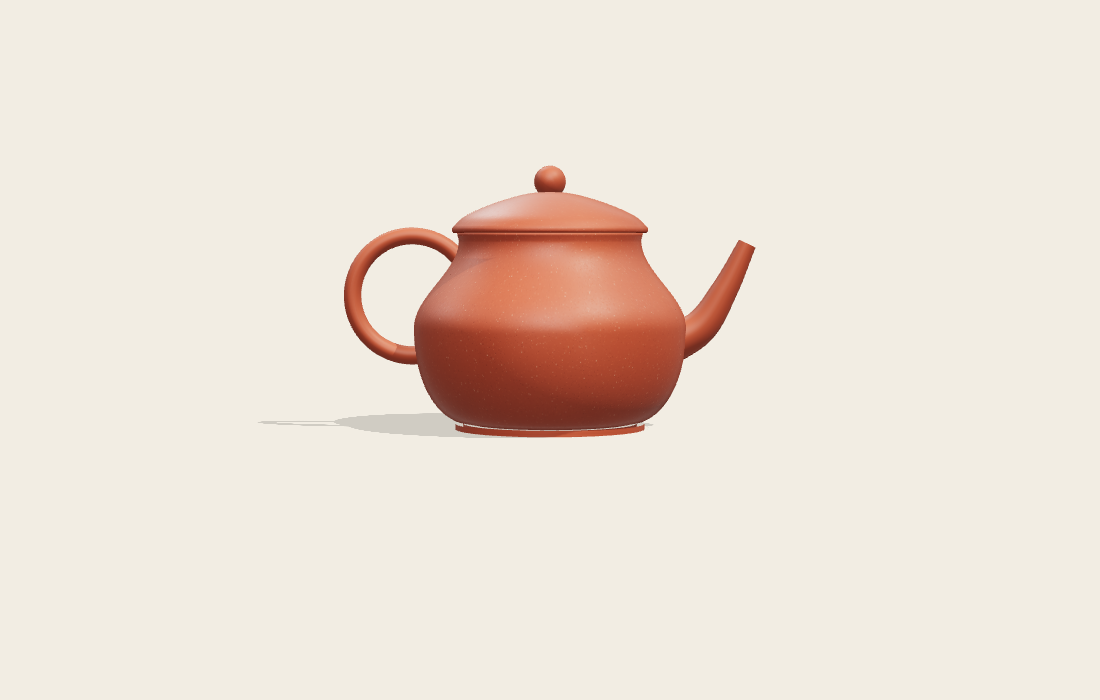
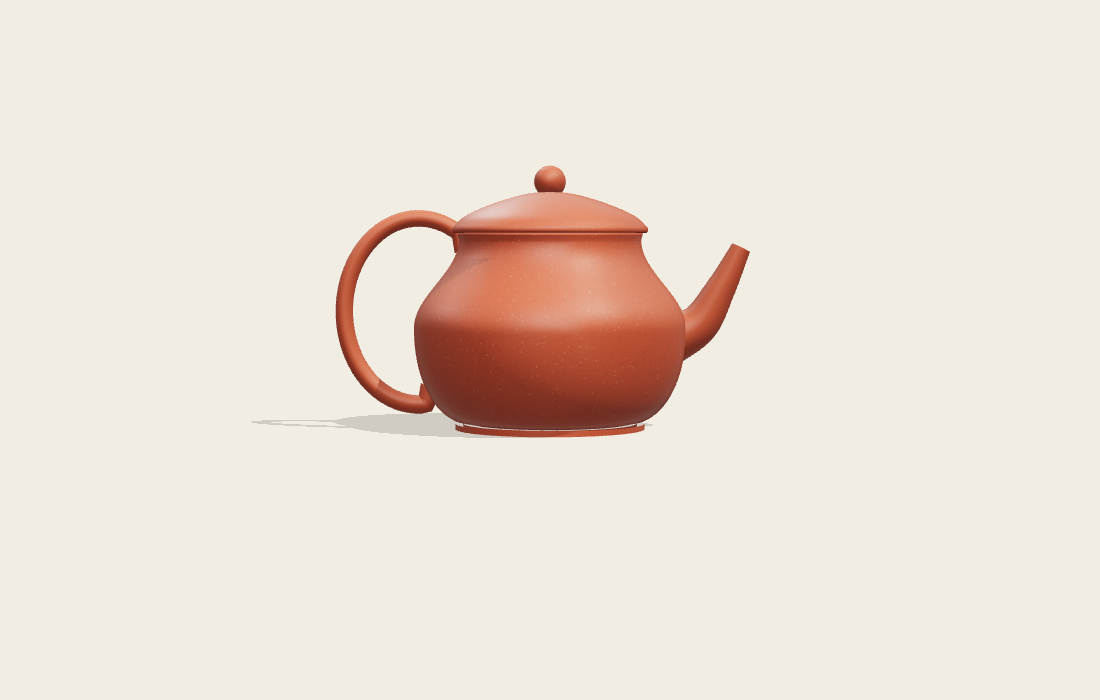
panhu: a walled bore in the curved spout, and an oval ring handle
Two faults, both caught by eye against the photograph:

- the swept spout had no bore. A tube sweep is a single surface, so the pour
  opening showed no wall -- a violation of the DSL's own rule (no surface
  without a back face) that the straight-cone spout had never had, because its
  profile folds inward at the tip. sweptTube now takes an inner radius and
  builds the bore plus the annulus that closes them at the tip; the wall is
  visible in the opening.
- the handle was a circle. A circle through the two attachments and the outer
  point cannot make the tall oval a 环把 actually is, so the loop is now
  stretched vertically by a parameter, with the ends pinned back onto the body.

Spout root thickened and shortened to match the photograph.

Still approximate and known: the spout meets the belly as a tube rather than
with the wide 润接 fillet the real pot has, and the shoulder meets the lid a
little more sharply than it should.

Claude-Session: https://claude.ai/code/session_01Au3NkrP4Zh9Vb2uEzJxxmj

Changed region(s): [[0.2782, 0.3, 0.4327, 0.6], [0.6182, 0.33, 0.68, 0.48], [0.2473, 0.6, 0.3091, 0.63]]

diff --git a/src/geometry/sweep.js b/src/geometry/sweep.js
@@ -4,7 +4,10 @@ import * as THREE from 'three'
  * Tube of varying radius along a curve — three's TubeGeometry is fixed-radius,
  * but a hand-formed strap or spout is never a constant tube.
  */
-export function sweptTube(curve, radiusAt, tubular = 72, radial = 16) {
+export function sweptTube(curve, radiusAt, tubular = 72, radial = 16, innerAt = null) {
+  // With innerAt the sweep is a *walled* tube: an outer surface, an inner bore
+  // and an annulus closing them at the tip. Without a bore a spout has no wall
+  // at the pour opening, which the DSL forbids — no surface without a back face.
   const frames = curve.computeFrenetFrames(tubular, false)
   const pos = [], nor = [], idx = []
   for (let i = 0; i <= tubular; i++) {
@@ -30,6 +33,41 @@ export function sweptTube(curve, radiusAt, tubular = 72, radial = 16) {
       const c = (radial + 1) * i + j
       const d = (radial + 1) * (i - 1) + j
       idx.push(a, b, d, b, c, d)
+    }
+  }
+  if (innerAt) {
+    const base = (tubular + 1) * (radial + 1)
+    for (let i = 0; i <= tubular; i++) {
+      const t = i / tubular
+      const P = curve.getPointAt(t)
+      const N = frames.normals[i]
+      const B = frames.binormals[i]
+      const r = Math.max(innerAt(t), 0.004)
+      for (let j = 0; j <= radial; j++) {
+        const v = (j / radial) * Math.PI * 2
+        const sn = Math.sin(v), cs = -Math.cos(v)
+        const nx = cs * N.x + sn * B.x
+        const ny = cs * N.y + sn * B.y
+        const nz = cs * N.z + sn * B.z
+        nor.push(-nx, -ny, -nz)                    // the bore faces inward
+        pos.push(P.x + r * nx, P.y + r * ny, P.z + r * nz)
+      }
+    }
+    for (let i = 1; i <= tubular; i++) {
+      for (let j = 1; j <= radial; j++) {
+        const a = base + (radial + 1) * (i - 1) + (j - 1)
+        const b = base + (radial + 1) * i + (j - 1)
+        const c = base + (radial + 1) * i + j
+        const d = base + (radial + 1) * (i - 1) + j
+        idx.push(a, d, b, b, d, c)                 // reversed winding
+      }
+    }
+    // annulus at the tip: this is the wall you see when you look into the spout
+    const oTip = (radial + 1) * tubular
+    const iTip = base + (radial + 1) * tubular
+    for (let j = 1; j <= radial; j++) {
+      idx.push(oTip + j - 1, iTip + j - 1, oTip + j)
+      idx.push(oTip + j, iTip + j - 1, iTip + j)
     }
   }
   const g = new THREE.BufferGeometry()

diff --git a/src/components/handles.js b/src/components/handles.js
@@ -34,6 +34,7 @@ export const HANDLES = {
       topY: { label: '上接', min: 0.45, max: 1.0, step: 0.01, default: 0.78 },
       botY: { label: '下接', min: 0.08, max: 0.6, step: 0.01, default: 0.30 },
       loopY: { label: '环心高', min: 0.2, max: 0.9, step: 0.01, default: 0.52 },
+      stretch: { label: '环高扁', min: 0.6, max: 1.8, step: 0.02, default: 1.0 },
     },
     build(p, prof, material) {
       const H = prof.height
@@ -55,12 +56,22 @@ export const HANDLES = {
       if (!(Math.sign(dc) === Math.sign(delta) && Math.abs(dc) < Math.abs(delta))) {
         delta -= Math.sign(delta) * Math.PI * 2
       }
+      // a circle through the three points is the base; `stretch` makes it an
+      // oval, since a real 环把 is taller than it is wide
+      const k = p.stretch ?? 1
       const pts = []
       const N = 64
       for (let i = 0; i <= N; i++) {
         const a = a0 + delta * (i / N)
-        pts.push(new THREE.Vector3(centre.x + radius * Math.cos(a), centre.y + radius * Math.sin(a), 0))
+        pts.push(new THREE.Vector3(
+          centre.x + radius * Math.cos(a),
+          centre.y + radius * Math.sin(a) * k,
+          0,
+        ))
       }
+      // the ends must still meet the body after stretching
+      pts[0].set(A.x, A.y, 0)
+      pts[pts.length - 1].set(B.x, B.y, 0)
       const curve = new THREE.CatmullRomCurve3(pts, false, 'centripetal')
       const geo = sweptTube(curve, (t) => p.tube * (p.taper + (1 - p.taper) * Math.pow(t, 1.4)))
       return new THREE.Mesh(geo, material)

diff --git a/src/components/spouts.js b/src/components/spouts.js
@@ -23,6 +23,7 @@ export const SPOUTS = {
       bend: { label: '弯度', min: -0.3, max: 0.6, step: 0.01, default: 0.26 },
       rootR: { label: '根径', min: 0.05, max: 0.22, step: 0.002, default: 0.115 },
       tipR: { label: '口径', min: 0.02, max: 0.1, step: 0.002, default: 0.042 },
+      wall: { label: '壁厚', min: 0.005, max: 0.03, step: 0.001, default: 0.012 },
     },
     build(p, material, prof) {
       const H = prof?.height ?? 1
@@ -37,8 +38,9 @@ export const SPOUTS = {
         new THREE.Vector3(x0 + p.length * 0.68, y0 + H * p.rise * (0.42 + p.bend * 0.4), 0),
         new THREE.Vector3(tipX, tipY, 0),
       ], false, 'centripetal')
+      const outerAt = (t) => THREE.MathUtils.lerp(p.rootR, p.tipR, Math.pow(t, 0.8))
       return new THREE.Mesh(
-        sweptTube(curve, (t) => THREE.MathUtils.lerp(p.rootR, p.tipR, Math.pow(t, 0.8))),
+        sweptTube(curve, outerAt, 72, 18, (t) => Math.max(outerAt(t) - p.wall, 0.006)),
         material,
       )
     },
